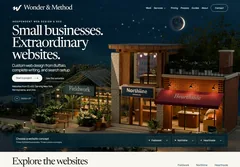
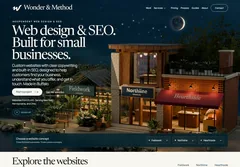
Clarify homepage web design and SEO introduction

Changed region(s): [[0.0292, 0.1497, 0.4958, 0.7186], [0.175, 0.6886, 0.2042, 0.7186], [0.0, 0.6886, 0.0292, 0.7186]]

diff --git a/deployment/PRODUCTION.md b/deployment/PRODUCTION.md
@@ -1,5 +1,7 @@
 # Production website
 
+Homepage copy refinement, October 21: the main heading now names web design, SEO and small businesses. The supporting introduction explains the included copywriting, built-in SEO, customer purpose and Buffalo origin. The homepage portfolio image reflects the updated copy. No pricing, routes, search policy, motion behavior or database schema changes are required. Private publication evidence is under `evidence/homepage-h1-20261021/`.
+
 Current source revision: [October 21 clarity and preservation audit](../operations/CLAUDE_AUDIT_20261021.md): every one of the supplied 157 recommendations is accounted for, with independent verification and explicit adjustments or deferrals. Clearer buying paths, forms, guides and local content retain all 286 pages, 285 sitemap URLs, 217 county pages, 23 guides and original films. Smaller bundles, responsive media, family styles and verified asset hashes improve delivery without changing the search index policy. Small-screen first visits use Play; an explicit playing choice is remembered for the session. No migration or new tracking schema is required. Use the private audit release record for verified publication identity.
 
 Previous visual revision: [Living City homepage and Buffalo Work archive](../operations/LIVING_CITY_20261020.md): a twelve-second introduction with native website showcases, a seamless ambient city loop and a fixed header, with the preserved Buffalo animation on its own Work page. The October 21 motion polish adds staggered looping stars, a crescent moon, glimmering constellations, occasional shooting stars and branded card entrances that settle into crisp text. The night effects continue after the introduction and share the pause and reduced-motion behavior. Migration 0016 was applied in the preceding Living City release. The private Living City night-sky release record retains its historical publication identity.
